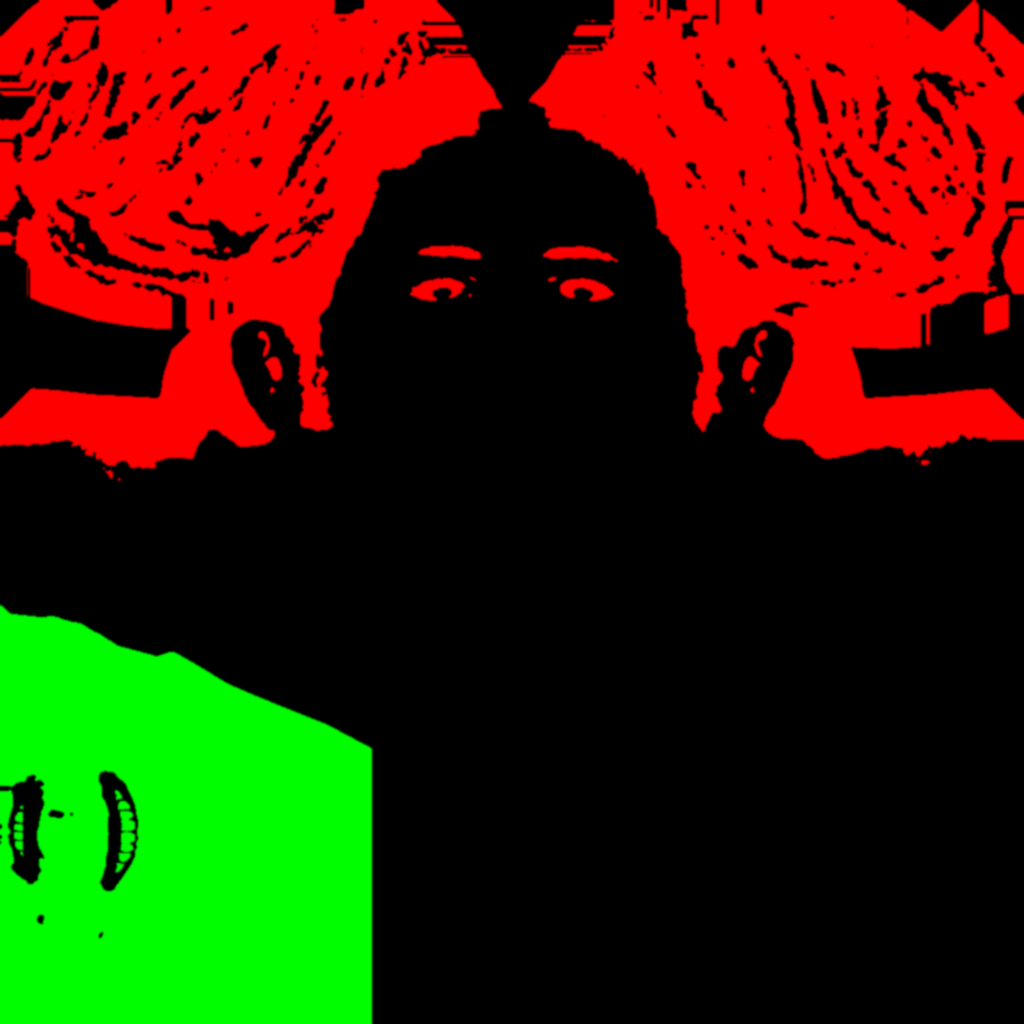
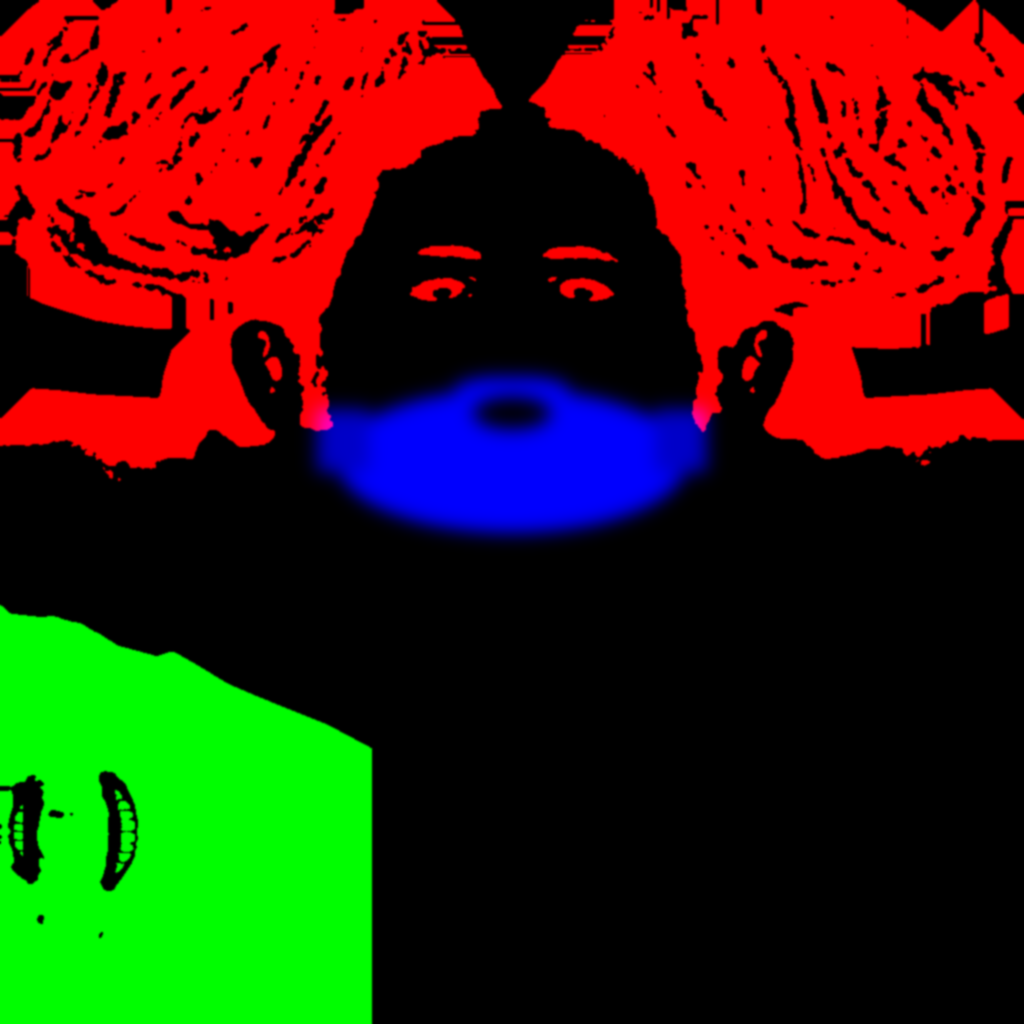
머리 모양·수염: 민머리·짧게 민 머리, 선수별 짧은 수염·턱수염
- 머리 마스크 B 채널에 수염 영역(턱, 턱끝, 콧수염, 입술 제외) 추가
- 머리 셰이더: crop은 두피에 짧은 털, bald는 두피색(칠해진 머리 명암을 조금 살림), 수염은 머리색으로
  짧은 수염/턱수염. crop·bald이면 드레드록 메시를 숨김
- 수염은 프로필 beard 값, 없으면 선수마다 고정(약 40% 없음)

Claude-Session: https://claude.ai/code/session_018BGCnmyAFgJkL1Ehgp8EZr

Changed region(s): [[0.2812, 0.3438, 0.7188, 0.5312]]

diff --git a/src/human-body.js b/src/human-body.js
@@ -8,7 +8,7 @@ import {MeshoptDecoder} from '../vendor/three-addons/libs/meshopt_decoder.module
 import {clone} from '../vendor/three-addons/utils/SkeletonUtils.js';
 import {TEAMS} from './config.js';
 import {kitHooks} from './player.js';
-import {kitColours,kitMaterial,setKitColours,headMaterial,drawDecals,composePhotoHead} from './human-kit.js';
+import {kitColours,kitMaterial,setKitColours,headMaterial,drawDecals,composePhotoHead,HAIR_STYLES,BEARDS} from './human-kit.js';
 import {cleanFace,FACE_SHAPE} from './face-settings.js';
 
 // Old joint -> new bones, from tools/human/maps/game13.json (index 0 is the player's right side).
@@ -95,7 +95,10 @@ export function humanLook(profile={},number=10,avatars={male_02:{skin:'#c18a6f',
  const ratio=(want,have)=>{const l=(lum(want)/Math.max(lum(have),.005))**.6;return new THREE.Color(...['r','g','b'].map(k=>clamp(l*(1+((want[k]/Math.max(have[k],.005))/(lum(want)/Math.max(lum(have),.005))-1)*.45),.25,1.8)));};
  const tint=ratio(target,new THREE.Color(avatars[id].skin));
  const hairTint=ratio(new THREE.Color(profile.hair||'#211a15'),new THREE.Color(avatars[id].hairColor||'#2a1d14'));
- return {avatar:id,tint,hairTint};
+ // Beard: the profile's choice if it has one, otherwise a stable pick per player (about 40% none).
+ const seed=[...String(profile.uid??profile.name??number)].reduce((h,c)=>(h*31+c.charCodeAt(0))%9973,number*13),pick=seed%20;
+ const beard=BEARDS[profile.beard]??(pick<8?0:pick<15?1:2);
+ return {avatar:id,tint,hairTint,hairStyle:HAIR_STYLES[profile.hairStyle]??0,beard};
 }
 const bootColors=['#d3ff47','#f18e54','#dce7f0'];
 function coloursFor(look){return kitColours(TEAMS[look.team],{keeper:look.keeper,boots:look.profile.boots||bootColors[look.number%3]});}
@@ -223,15 +226,17 @@ function lookAtBall(head,bindHead,ball){
 }
 function attach(rig){
  if(rig.human||rig.disposed)return;const look=rig.look||(rig.look={team:0,number:10,keeper:false,profile:{}}),m=rig.bodyMetrics;
- const {avatar:id,tint,hairTint}=humanLook(look.profile,look.number,assets.avatars),a=assets.avatars[id],bind=a.bind;
+ const {avatar:id,tint,hairTint,hairStyle,beard}=humanLook(look.profile,look.number,assets.avatars),a=assets.avatars[id],bind=a.bind;
  const root=clone(a.gltf.scene),bones={},meshes=[];root.traverse(o=>{if(o.isBone)bones[o.name]=o;if(o.isSkinnedMesh)meshes.push(o);});
  const decalCanvas=document.createElement('canvas');decalCanvas.width=decalCanvas.height=512;
  const decals=new THREE.CanvasTexture(decalCanvas);decals.flipY=false;decals.colorSpace=THREE.SRGBColorSpace;decals.anisotropy=4;
  const materials={
   body:kitMaterial({map:a.body,normalMap:a.bodyNormal,mask:assets.mask,maskSmooth:assets.maskSmooth,layout:assets.layout},coloursFor(look),decals,tint),
-  head:headMaterial({map:a.head,normalMap:a.headNormal,eyes:assets.layout.eyes,hairMask:a.hairMask},tint,hairTint),
+  head:headMaterial({map:a.head,normalMap:a.headNormal,hairMask:a.hairMask,scalp:a.skin,hairRef:a.hairColor},tint,hairTint,{hairStyle,beard,hair:look.profile.hair||'#211a15'}),
   hair:a.hair&&new THREE.MeshStandardMaterial({map:a.hair,color:hairTint,alphaTest:.5,side:THREE.DoubleSide,roughness:.8})};
- for(const mesh of meshes){mesh.material=materials[mesh.material.name]||materials.body;mesh.frustumCulled=false;mesh.castShadow=true;mesh.receiveShadow=true;}
+ for(const mesh of meshes){mesh.material=materials[mesh.material.name]||materials.body;mesh.frustumCulled=false;mesh.castShadow=true;mesh.receiveShadow=true;
+  // Only a full head of hair keeps the modelled locks; crop and bald show the scalp.
+  if(mesh.material===materials.hair&&hairStyle>0)mesh.visible=false;}
  // Profile height, limb lengths and girth; the feet then reach the old rig's ankles by IK every frame.
  const shape=bodyShape(m),worldScale=m.height/shapedHeight(bind,shape),toModel=m.scale/worldScale;root.scale.setScalar(1/toModel);
  const hipsLift=applyBodyShape(bones,meshes,shape,bind,faceShape(look.profile,look.number));

diff --git a/src/human-kit.js b/src/human-kit.js
@@ -98,15 +98,27 @@ export function setKitColours(m,c){
  u.kitShorts.value.set(c.shorts);u.kitSocks.value.set(c.socks);u.kitBoots.value.set(c.boots);u.kitGloves.value.set(c.gloves||'#ffffff');u.kitPattern.value=c.pattern;u.kitKeeper.value=c.gloves?1:0;
 }
 
-/** Head material: skin tint on the face and neck, hair tint on the painted hair; eyes, gums and teeth (mask G)
- * keep their colours. */
-export function headMaterial({map,normalMap,eyes,hairMask},tint,hairTint){
+export const HAIR_STYLES={short:0,crest:0,crop:1,bald:2},BEARDS={none:0,stubble:1,beard:2};
+const headFragment=`#include <map_fragment>
+vec4 headM=texture2D(hairMask,vMapUv);vec3 base=diffuseColor.rgb;
+float grain=fract(sin(dot(floor(vMapUv*1400.0),vec2(12.9898,78.233)))*43758.5453);
+vec3 hairC=base*hairTint;
+// Crop and bald: the painted hair becomes scalp (with fine stubble for a crop).
+if(hairStyle>.5){float shape=clamp(dot(base,vec3(.2126,.7152,.0722))/max(dot(hairRef,vec3(.2126,.7152,.0722)),.005),.55,1.4);vec3 scalp=scalpColor*skinTint*(.84+.08*grain)*mix(1.0,shape,.22);hairC=mix(scalp,hairColor*.55,hairStyle<1.5?.45+.3*grain:.04);}
+vec3 col=mix(base*skinTint,hairC,headM.r);
+// Stubble or a beard on the jaw, chin and upper lip.
+if(beard>.5){float w=headM.b*(beard<1.5?(.25+.35*grain):(.5+.32*grain));col=mix(col,hairColor*(.5+.2*grain),w);}
+diffuseColor.rgb=mix(col,base,headM.g);`;
+/** Head material: skin tint on the face and neck, hair tint (or scalp for crop/bald) on the painted hair, an
+ * optional stubble or beard; eyes, gums and teeth (mask G) keep their colours. */
+export function headMaterial({map,normalMap,hairMask,scalp,hairRef},tint,hairTint,{hairStyle=0,beard=0,hair='#211a15'}={}){
  const m=new THREE.MeshStandardMaterial({map,normalMap,roughness:.58,metalness:0});
- const u={skinTint:{value:tint.clone()},hairTint:{value:(hairTint||tint).clone()},eyesRect:{value:new THREE.Vector4(...eyes)},hairMask:{value:hairMask}};m.userData.kit=u;
+ const u={skinTint:{value:tint.clone()},hairTint:{value:(hairTint||tint).clone()},hairMask:{value:hairMask},hairStyle:{value:hairStyle},beard:{value:beard},
+  hairColor:{value:new THREE.Color(hair)},scalpColor:{value:new THREE.Color(scalp||'#c18a6f')},hairRef:{value:new THREE.Color(hairRef||'#372619')}};m.userData.kit=u;
  m.onBeforeCompile=shader=>{Object.assign(shader.uniforms,u);
-  shader.fragmentShader=shader.fragmentShader.replace('#include <common>','#include <common>\nuniform vec3 skinTint,hairTint;uniform vec4 eyesRect;uniform sampler2D hairMask;')
-   .replace('#include <map_fragment>','#include <map_fragment>\nvec4 headM=texture2D(hairMask,vMapUv);diffuseColor.rgb*=mix(mix(skinTint,hairTint,headM.r),vec3(1.0),headM.g);');};
- m.customProgramCacheKey=()=> 'rocketbox-head-v3';
+  shader.fragmentShader=shader.fragmentShader.replace('#include <common>','#include <common>\nuniform vec3 skinTint,hairTint,hairColor,scalpColor,hairRef;uniform float hairStyle,beard;uniform sampler2D hairMask;')
+   .replace('#include <map_fragment>',headFragment);};
+ m.customProgramCacheKey=()=> 'rocketbox-head-v5';
  return m;
 }
 

diff --git a/src/human-lab/gallery.js b/src/human-lab/gallery.js
@@ -21,11 +21,11 @@ const pitch=new THREE.Mesh(new THREE.PlaneGeometry(60,30),new THREE.MeshStandard
 await loadHumanBodies(renderer);
 // [home club, away club, team index, keeper, profile]
 const LINE=[
- ['bucheon','seoul',0,false,{name:'J. KANG',number:10,skin:'#c89572',hairStyle:'short',height:1.81}],
+ ['bucheon','seoul',0,false,{name:'J. KANG',number:10,skin:'#c89572',hairStyle:'short',beard:'stubble',height:1.81}],
  ['bucheon','seoul',1,false,{name:'M. PARK',number:7,skin:'#976143',hairStyle:'crest',height:1.92,weight:84,body:{legLength:106}}],
- ['daejeon','pohang',0,false,{name:'S. LEE',number:9,skin:'#deb18a',hairStyle:'short',height:1.70,weight:63,body:{muscle:30,softness:15,shoulders:94,chest:92,waist:88,upperArm:88,thigh:90}}],
+ ['daejeon','pohang',0,false,{name:'S. LEE',number:9,skin:'#deb18a',hairStyle:'short',beard:'none',height:1.70,weight:63,body:{muscle:30,softness:15,shoulders:94,chest:92,waist:88,upperArm:88,thigh:90}}],
  ['daejeon','pohang',1,false,{name:'H. KIM',number:4,skin:'#74482f',hairStyle:'crest',height:1.86,weight:88,body:{muscle:90,softness:25,shoulders:112,chest:110,upperArm:118,thigh:115,calf:110}}],
- ['ulsan','seoul',0,false,{name:'D. CHOI',number:23,skin:'#e1ad88',hairStyle:'short',height:1.78,weight:92,body:{muscle:45,softness:80,waist:125,chest:106,thigh:112}}],
+ ['ulsan','seoul',0,false,{name:'D. CHOI',number:23,skin:'#e1ad88',hairStyle:'bald',beard:'beard',height:1.78,weight:92,body:{muscle:45,softness:80,waist:125,chest:106,thigh:112}}],
  ['seoul','bucheon',1,false,{name:'Y. JUNG',number:11,skin:'#bf8561',hairStyle:'crop',height:1.66,weight:60,body:{legLength:94,armLength:95}}],
  ['bucheon','seoul',0,true,{name:'K. HAN',number:1,skin:'#c89572',hairStyle:'short',height:1.94,weight:88,body:{armLength:108}}],
  // Photo face from the bundled fictional reference athlete (src/assets/default-face.jpg).

diff --git a/tools/human/rocketbox/02_textures.py b/tools/human/rocketbox/02_textures.py
@@ -269,7 +269,18 @@ for avatar in AVATARS:
     corner = np.zeros((N, N), bool)
     corner[int(EYES[1]) + 20:, :int(EYES[2])] = True
     keep |= corner & (hv2 > 0.5) & (hs2 < 0.38)  # teeth
-    mask2 = np.stack([blur(hair.astype(float), 1.0), blur(keep.astype(float), 1.0), np.zeros((N, N))], -1)
+    # B: where a beard grows (jaw, chin, upper lip, under the chin), soft-edged; lips stay clear.
+    bimg = Image.new('L', (N, N), 0)
+    bd = ImageDraw.Draw(bimg)
+    P = lambda u, v: (u * N, v * N)
+    bd.ellipse([P(.33, .38), P(.67, .52)], fill=255)                 # jaw and chin
+    bd.rectangle([P(.31, .40), P(.36, .46)], fill=200)                # sideburn to jaw corners
+    bd.rectangle([P(.64, .40), P(.69, .46)], fill=200)
+    bd.ellipse([P(.445, .368), P(.555, .392)], fill=255)              # moustache
+    bd.rectangle([P(.30, .30), P(.70, .368)], fill=0)                 # nothing above the upper lip
+    bd.ellipse([P(.462, .388), P(.538, .418)], fill=0)                # lips
+    beard = blur(np.asarray(bimg).astype(float) / 255, 9) * (~keep)
+    mask2 = np.stack([blur(hair.astype(float), 1.0), blur(keep.astype(float), 1.0), np.clip(beard, 0, 1)], -1)
     Image.fromarray((mask2 * 255).astype(np.uint8)).save(os.path.join(OUT, f'{name}-hairmask.png'), optimize=True)
     for kind in ('body', 'head'):
         nm = tex(avatar, kind + '_normal')
